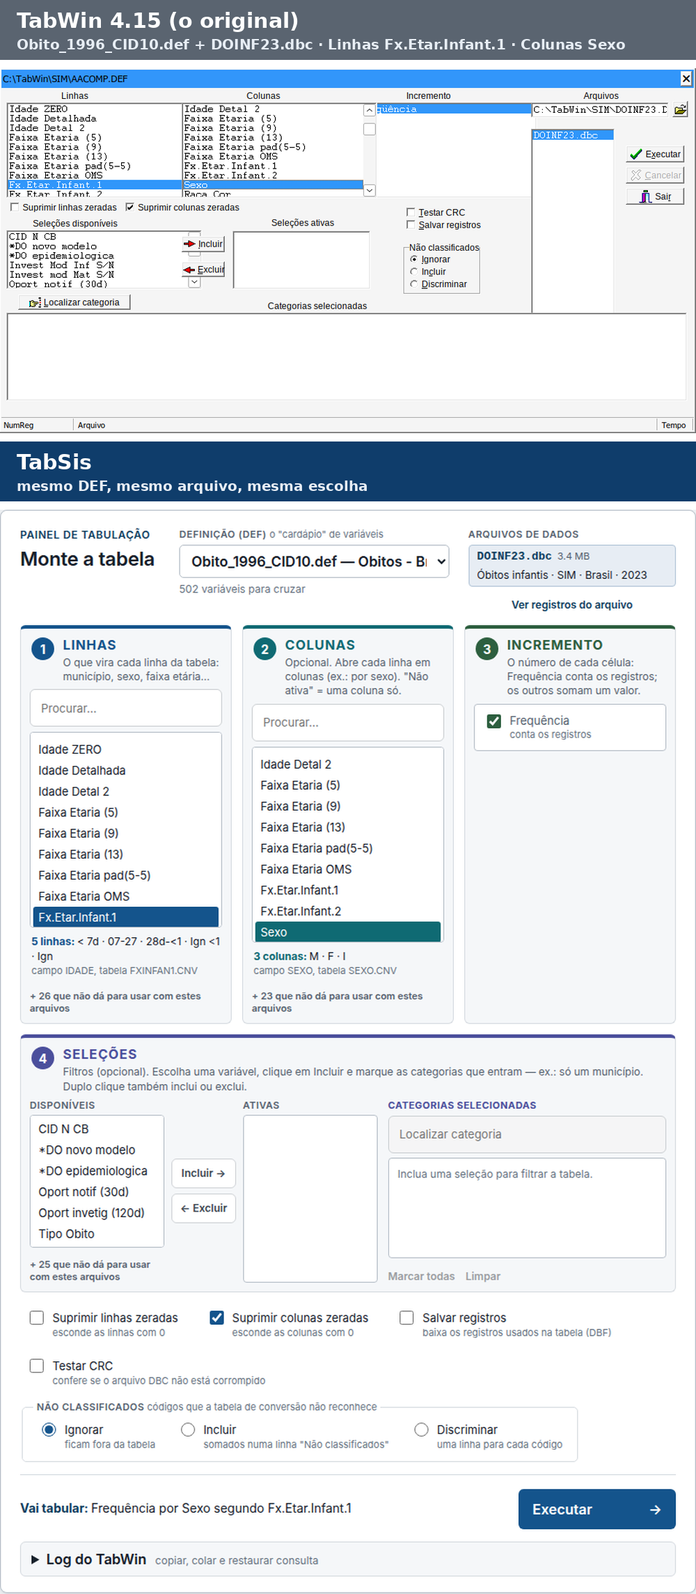
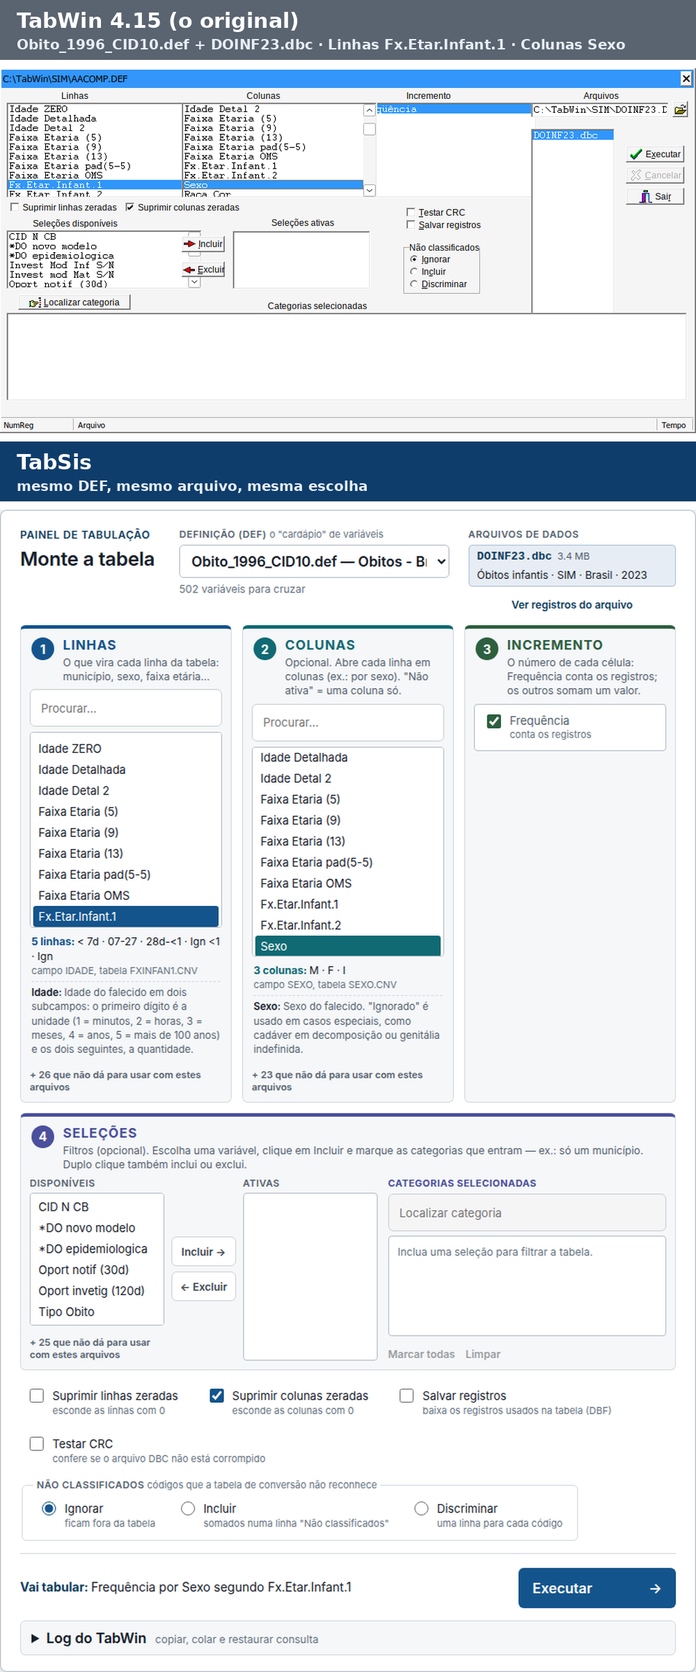
Dicionário oficial do SIM e do SINASC no painel
- packages/formats/src/datasus-field-dictionary.ts: 87 campos do SIM
  (Estrutura do SIM, DATASUS, 07/2025) e 30 do SINASC (Estrutura do
  SINASC), com nome, descrição e valores válidos — só o que os documentos
  dizem; campo não descrito (NUDIASOBIN) fica sem explicação, não com
  palpite. SEXO, que tem códigos diferentes nos dois, só responde com o
  sistema (tirado do nome do arquivo).
- Painel: a explicação oficial embaixo das categorias de Linhas e Colunas
  e na dica de cada opção; "Ver registros do arquivo" com o nome legível
  de cada campo; "Tabular por campos" com os nomes do dicionário.
- Exportação sem DEF volta a levar o nome técnico do campo no cabeçalho
  (a tela mostra o legível).
- Manual: "O que querem dizer os nomes do DEF", com exemplos; figuras
  refeitas.

Changed region(s): [[0.0, 0.2481, 1.0, 1.0], [0.0, 0.0, 1.0, 0.2171], [0.589, 0.1241, 0.682, 0.1861]]

diff --git a/packages/formats/src/datasus-field-dictionary.ts b/packages/formats/src/datasus-field-dictionary.ts
@@ -1,0 +1,188 @@
+/**
+ * O que cada campo do SIM e do SINASC significa, transcrito dos dicionários
+ * oficiais do DATASUS — para o painel explicar "STDONOVA" ou "DIFDATA" a quem
+ * nunca viu essas siglas, sem que ninguém precise adivinhar.
+ *
+ * Fontes (ftp.datasus.gov.br/dissemin/publicos):
+ * - SIM: `SIM/CID10/DOCS/Estrutura_do_SIM_2025.pdf` (atualizado em 07/2025);
+ * - SINASC: `SINASC/NOV/DOCS/Estrutura_SINASC_para_CD.pdf`.
+ *
+ * Só entra o que está escrito nesses documentos. Campo que eles não descrevem
+ * (no SIM, `NUDIASOBIN`; no SINASC, os campos da DN nova, como `KOTELCHUCK`)
+ * fica de fora: o painel mostra então só as categorias da CNV, que é o que se
+ * sabe. Como em `datasus-field-labels.ts`, isto é apresentação: nunca muda um
+ * número, um filtro ou uma exportação.
+ */
+
+export interface DatasusFieldEntry {
+  /** Nome curto, para mostrar no lugar da sigla. */
+  label: string;
+  /** O que o campo é, em uma ou duas frases. */
+  description: string;
+  /** Valores válidos, como o dicionário lista ("1 – Fetal; 2 – Não fetal"). */
+  values?: string;
+}
+
+export type DatasusDictionarySystem = 'SIM' | 'SINASC';
+
+export const DATASUS_DICTIONARY_SOURCES: Readonly<Record<DatasusDictionarySystem, string>> = Object.freeze({
+  SIM: 'Estrutura do SIM, DATASUS, 07/2025',
+  SINASC: 'Estrutura do SINASC, DATASUS',
+});
+
+const SIM_ANOS_DE_ESTUDO = '1 – Nenhuma; 2 – 1 a 3 anos; 3 – 4 a 7 anos; 4 – 8 a 11 anos; 5 – 12 anos e mais; 9 – Ignorado';
+const ESCOLARIDADE_2010 = '0 – Sem escolaridade; 1 – Fundamental I (1ª a 4ª série); 2 – Fundamental II (5ª a 8ª série); 3 – Médio; 4 – Superior incompleto; 5 – Superior completo; 9 – Ignorado';
+const ESCOLARIDADE_AGREGADA = '00 – Sem escolaridade; 01 – Fundamental I incompleto; 02 – Fundamental I completo; 03 – Fundamental II incompleto; 04 – Fundamental II completo; 05 – Médio incompleto; 06 – Médio completo; 07 – Superior incompleto; 08 – Superior completo; 09 – Ignorado; 10 a 12 – incompleto ou inespecífico';
+const SIM_NAO_IGNORADO = '1 – Sim; 2 – Não; 9 – Ignorado';
+const RACA_COR = '1 – Branca; 2 – Preta; 3 – Amarela; 4 – Parda; 5 – Indígena';
+const DATA = 'data no formato ddmmaaaa';
+
+const SIM: Readonly<Record<string, DatasusFieldEntry>> = {
+  TIPOBITO: { label: 'Tipo do óbito', description: 'Se o óbito é fetal (morte antes da expulsão ou extração completa do corpo da mãe) ou não fetal.', values: '1 – Fetal; 2 – Não fetal' },
+  DTOBITO: { label: 'Data do óbito', description: 'Data em que ocorreu o óbito.', values: DATA },
+  HORAOBITO: { label: 'Hora do óbito', description: 'Horário do óbito, no padrão de 24 horas.' },
+  NATURAL: { label: 'Naturalidade', description: 'Município e UF onde o falecido nasceu; se estrangeiro, o país.' },
+  CODMUNNATU: { label: 'Município de naturalidade', description: 'Código do município de naturalidade do falecido.' },
+  DTNASC: { label: 'Data de nascimento', description: 'Data de nascimento do falecido. No óbito fetal, igual à data do óbito.', values: DATA },
+  IDADE: { label: 'Idade', description: 'Idade do falecido em dois subcampos: o primeiro dígito é a unidade (1 = minutos, 2 = horas, 3 = meses, 4 = anos, 5 = mais de 100 anos) e os dois seguintes, a quantidade.' },
+  SEXO: { label: 'Sexo', description: 'Sexo do falecido. "Ignorado" é usado em casos especiais, como cadáver em decomposição ou genitália indefinida.', values: 'M ou 1 – Masculino; F ou 2 – Feminino; I, 0 ou 9 – Ignorado' },
+  RACACOR: { label: 'Raça/cor', description: 'Cor informada pelo responsável pelas informações do falecido.', values: RACA_COR },
+  ESTCIV: { label: 'Situação conjugal', description: 'Situação conjugal do falecido, informada pelos familiares.', values: '1 – Solteiro; 2 – Casado; 3 – Viúvo; 4 – Separado judicialmente/divorciado; 5 – União estável; 9 – Ignorado' },
+  ESC: { label: 'Escolaridade (anos)', description: 'Escolaridade do falecido em anos de estudo (formulário antigo).', values: SIM_ANOS_DE_ESTUDO },
+  ESC2010: { label: 'Escolaridade 2010 (nível)', description: 'Nível da última série concluída pelo falecido (formulário a partir de 2010).', values: ESCOLARIDADE_2010 },
+  SERIESCFAL: { label: 'Última série concluída', description: 'Última série escolar concluída pelo falecido (1 a 8).' },
+  ESCFALAGR1: { label: 'Escolaridade agregada', description: 'Escolaridade do falecido agregada (formulário a partir de 2010).', values: ESCOLARIDADE_AGREGADA },
+  OCUP: { label: 'Ocupação (CBO 2002)', description: 'Tipo de trabalho que o falecido desenvolveu na maior parte da vida produtiva, pela Classificação Brasileira de Ocupações.' },
+  CODMUNRES: { label: 'Município de residência', description: 'Código do município de residência. No óbito fetal, o município de residência da mãe.' },
+  LOCOCOR: { label: 'Local de ocorrência', description: 'Onde o óbito ocorreu.', values: '1 – Hospital; 2 – Outro estabelecimento de saúde; 3 – Domicílio; 4 – Via pública; 5 – Outros; 6 – Aldeia indígena; 9 – Ignorado' },
+  CODESTAB: { label: 'Estabelecimento (CNES)', description: 'Código do estabelecimento de saúde no Cadastro Nacional de Estabelecimentos de Saúde.' },
+  CODMUNOCOR: { label: 'Município de ocorrência', description: 'Código do município onde ocorreu o óbito.' },
+  IDADEMAE: { label: 'Idade da mãe', description: 'Idade da mãe, em anos.' },
+  ESCMAE: { label: 'Escolaridade da mãe (anos)', description: 'Escolaridade da mãe em anos de estudo (formulário antigo).', values: SIM_ANOS_DE_ESTUDO },
+  ESCMAE2010: { label: 'Escolaridade da mãe 2010 (nível)', description: 'Nível da última série concluída pela mãe (formulário a partir de 2010).', values: ESCOLARIDADE_2010 },
+  SERIESCMAE: { label: 'Última série concluída pela mãe', description: 'Última série escolar concluída pela mãe (1 a 8).' },
+  ESCMAEAGR1: { label: 'Escolaridade da mãe agregada', description: 'Escolaridade da mãe agregada (formulário a partir de 2010).', values: ESCOLARIDADE_AGREGADA },
+  OCUPMAE: { label: 'Ocupação da mãe (CBO 2002)', description: 'Trabalho exercido habitualmente pela mãe, pela Classificação Brasileira de Ocupações.' },
+  QTDFILVIVO: { label: 'Filhos nascidos vivos', description: 'Número de filhos vivos da mãe.' },
+  QTDFILMORT: { label: 'Perdas fetais/abortos', description: 'Número de filhos mortos, sem contar a criança cujo óbito está sendo notificado.' },
+  SEMAGESTAC: { label: 'Semanas de gestação', description: 'Semanas de gestação, com dois algarismos.' },
+  GESTACAO: { label: 'Faixa de semanas de gestação', description: 'Semanas de gestação em faixas (formulário antigo).', values: '1 – Menos de 22; 2 – 22 a 27; 3 – 28 a 31; 4 – 32 a 36; 5 – 37 a 41; 6 – 42 e mais semanas' },
+  GRAVIDEZ: { label: 'Tipo de gravidez', description: 'Se a gravidez foi única ou múltipla.', values: '1 – Única; 2 – Dupla; 3 – Tripla e mais; 9 – Ignorada' },
+  PARTO: { label: 'Tipo de parto', description: 'Tipo de parto.', values: '1 – Vaginal; 2 – Cesáreo; 9 – Ignorado' },
+  OBITOPARTO: { label: 'Morte em relação ao parto', description: 'Momento do óbito em relação ao parto.', values: '1 – Antes; 2 – Durante; 3 – Depois; 9 – Ignorado' },
+  MORTEPARTO: { label: 'Morte em relação ao parto (após investigação)', description: 'Momento do óbito em relação ao parto, depois da investigação.', values: '1 – Antes; 2 – Durante; 3 – Após; 9 – Ignorado' },
+  PESO: { label: 'Peso ao nascer', description: 'Peso ao nascer, em gramas.' },
+  TPMORTEOCO: { label: 'Quando a morte ocorreu (mulher em idade fértil)', description: 'Situação gestacional ou pós-gestacional em que ocorreu o óbito.', values: '1 – Na gravidez; 2 – No parto; 3 – No abortamento; 4 – Até 42 dias após o parto; 5 – De 43 dias a 1 ano após; 8 – Não ocorreu nesses períodos; 9 – Ignorado' },
+  OBITOGRAV: { label: 'Óbito na gravidez', description: 'Se o óbito ocorreu na gravidez.', values: SIM_NAO_IGNORADO },
+  OBITOPUERP: { label: 'Óbito no puerpério', description: 'Se o óbito ocorreu no puerpério.', values: '1 – Sim, até 42 dias após o parto; 2 – Sim, de 43 dias a 1 ano; 3 – Não; 9 – Ignorado' },
+  TPOBITOCOR: { label: 'Momento do óbito (investigação)', description: 'Momento do óbito apontado pela investigação; em branco, não investigado.', values: '1 – Na gestação; 2 – No abortamento; 3 – Após o abortamento; 4 – No parto ou até 1 hora após; 5 – No puerpério (até 42 dias); 6 – De 43 dias a 1 ano após o parto; 7 – Investigação não identificou; 8 – Mais de um ano após o parto; 9 – Nenhuma dessas' },
+  ASSISTMED: { label: 'Recebeu assistência médica', description: 'Se o paciente recebeu atendimento médico continuado durante a doença que causou a morte.', values: SIM_NAO_IGNORADO },
+  EXAME: { label: 'Exame', description: 'Se foi realizado exame.', values: SIM_NAO_IGNORADO },
+  CIRURGIA: { label: 'Cirurgia', description: 'Se foi realizada cirurgia.', values: SIM_NAO_IGNORADO },
+  NECROPSIA: { label: 'Necropsia', description: 'Se foi feita necropsia para confirmar o diagnóstico.', values: SIM_NAO_IGNORADO },
+  LINHAA: { label: 'Causa — linha A', description: 'CIDs da linha A da DO: a causa terminal, doença ou estado que causou diretamente a morte.' },
+  LINHAB: { label: 'Causa — linha B', description: 'CIDs da linha B da DO: causa antecedente, que produziu a causa da linha A.' },
+  LINHAC: { label: 'Causa — linha C', description: 'CIDs da linha C da DO: causa antecedente, que produziu a causa da linha B.' },
+  LINHAD: { label: 'Causa — linha D', description: 'CIDs da linha D da DO: causa básica, o estado mórbido que produziu a causa direta da morte registrada na linha A.' },
+  LINHAII: { label: 'Causa — parte II', description: 'CIDs informados na parte II da DO.' },
+  CAUSABAS: { label: 'Causa básica (CID-10)', description: 'Causa básica do óbito, em CID-10.' },
+  CAUSABAS_O: { label: 'Causa básica original', description: 'Causa básica informada antes da resseleção.' },
+  CAUSAMAT: { label: 'Causa externa associada à materna', description: 'CID da causa externa associada a uma causa materna.' },
+  ATESTANTE: { label: 'Médico atestante', description: 'Condição do médico que atestou o óbito.', values: '1 – Assistente; 2 – Substituto; 3 – IML; 4 – SVO; 5 – Outro' },
+  COMUNSVOIM: { label: 'Município do SVO/IML', description: 'Código do município do SVO ou do IML, quando o óbito foi atestado por um deles.' },
+  DTATESTADO: { label: 'Data do atestado', description: 'Data em que o atestado foi assinado.', values: DATA },
+  CIRCOBITO: { label: 'Tipo de morte violenta', description: 'Circunstância da morte não natural.', values: '1 – Acidente; 2 – Suicídio; 3 – Homicídio; 4 – Outros; 9 – Ignorado' },
+  ACIDTRAB: { label: 'Acidente de trabalho', description: 'Se o evento que causou o óbito está relacionado ao trabalho.', values: SIM_NAO_IGNORADO },
+  FONTE: { label: 'Fonte da informação', description: 'Fonte usada para preencher o tipo de morte violenta e o acidente de trabalho.', values: '1 – Ocorrência policial; 2 – Hospital; 3 – Família; 4 – Outra; 9 – Ignorado' },
+  ORIGEM: { label: 'Origem do registro', description: 'De que banco de dados o registro veio.', values: '1 – Oracle; 2 – Banco estadual via FTP; 3 – Banco SEADE; 9 – Ignorado' },
+  NUMEROLOTE: { label: 'Número do lote', description: 'Número do lote de digitação.' },
+  DTINVESTIG: { label: 'Data da investigação', description: 'Data da investigação do óbito.', values: DATA },
+  DTCADASTRO: { label: 'Data do cadastro', description: 'Data do cadastro do óbito no sistema.', values: DATA },
+  DTRECEBIM: { label: 'Data do recebimento', description: 'Data do recebimento da DO.', values: DATA },
+  DTRECORIGA: { label: 'Data do recebimento original', description: 'Data do recebimento original, criada no tratamento dos dados.', values: DATA },
+  STCODIFICA: { label: 'Instalação codificadora', description: 'Se a instalação é codificadora (S) ou não (N).' },
+  CODIFICADO: { label: 'Formulário codificado', description: 'Se o formulário foi codificado (S) ou não (N).' },
+  VERSAOSIST: { label: 'Versão do sistema', description: 'Versão do sistema que gerou o registro.' },
+  VERSAOSCB: { label: 'Versão do seletor de causa básica', description: 'Versão do programa que seleciona a causa básica.' },
+  FONTEINV: { label: 'Fonte da investigação', description: 'Fonte usada na investigação do óbito.', values: '1 – Comitê de morte materna e/ou infantil; 2 – Visita domiciliar/entrevista com a família; 3 – Estabelecimento de saúde/prontuário; 4 – Outros bancos de dados; 5 – SVO; 6 – IML; 7 – Outra; 8 – Múltiplas fontes; 9 – Ignorado' },
+  FONTES: { label: 'Fontes da investigação (combinado)', description: 'Combinação das fontes da investigação (entrevista, ambulatório, prontuário, SVO, IML, profissional): S onde a fonte foi usada, X onde não.' },
+  ATESTADO: { label: 'CIDs do atestado', description: 'CIDs informados no atestado.' },
+  OPOR_DO: { label: 'Oportunidade da DO', description: 'Campo criado no tratamento dos dados para calcular oportunidades.' },
+  STDOEPIDEM: { label: 'DO epidemiológica', description: 'Se a declaração de óbito é epidemiológica.', values: '1 – Sim; 0 – Não' },
+  STDONOVA: { label: 'DO nova', description: 'Se a declaração de óbito é do modelo novo.', values: '1 – Sim; 0 – Não' },
+  DIFDATA: { label: 'Dias até o recebimento', description: 'Diferença, em dias, entre a data do óbito e a data do recebimento original da DO.' },
+  NUDIASOBCO: { label: 'Dias até a conclusão da investigação', description: 'Diferença, em dias, entre a data do óbito e a conclusão da investigação.' },
+  DTCADINV: { label: 'Data do cadastro da investigação', description: 'Data do cadastro da investigação.', values: DATA },
+  DTCONINV: { label: 'Data da conclusão da investigação', description: 'Data da conclusão da investigação.', values: DATA },
+  DTCADINF: { label: 'Investigação realizada', description: 'Quando preenchido, indica que a investigação foi realizada.', values: DATA },
+  DTCONCASO: { label: 'Data de conclusão do caso', description: 'Data de conclusão do caso.', values: DATA },
+  TPRESGINFO: { label: 'Resgate de informação', description: 'Se a investigação trouxe uma causa de óbito não informada ou corrigiu uma informada.', values: '01 – Não acrescentou nem corrigiu; 02 – Sim, resgatou novas informações; 03 – Sim, corrigiu alguma causa informada' },
+  TPNIVELINV: { label: 'Nível investigador', description: 'Nível que fez a investigação.', values: 'E – Estadual; R – Regional; M – Municipal' },
+  ALTCAUSA: { label: 'Alterou a causa após investigação', description: 'Se a causa do óbito foi corrigida ou alterada depois da investigação.', values: '1 – Sim; 2 – Não' },
+  TPPOS: { label: 'Óbito investigado', description: 'Se o óbito foi investigado.', values: '1 – Sim; 2 – Não' },
+  TP_ALTERA: { label: 'Motivo de alteração da causa', description: 'Tipo de crítica que levou à alteração da causa básica (em branco, ausência do 4º caractere, causa asterisco, inválida para o sexo, implausível…).' },
+  CB_ALT: { label: 'Variável de sistema', description: 'Variável de uso interno do sistema.' },
+};
+
+const SINASC: Readonly<Record<string, DatasusFieldEntry>> = {
+  NUMERODN: { label: 'Número da DN', description: 'Número da declaração de nascido vivo, sequencial por UF informante e por ano.' },
+  LOCNASC: { label: 'Local do nascimento', description: 'Onde o nascimento ocorreu.', values: '1 – Hospital; 2 – Outro estabelecimento de saúde; 3 – Domicílio; 4 – Outros; 9 – Ignorado' },
+  CODESTAB: { label: 'Estabelecimento (CNES)', description: 'Código do estabelecimento de saúde.' },
+  CODBAINASC: { label: 'Bairro do nascimento', description: 'Código do bairro do nascimento.' },
+  CODMUNNASC: { label: 'Município do nascimento', description: 'Código do município de ocorrência do nascimento.' },
+  IDADEMAE: { label: 'Idade da mãe', description: 'Idade da mãe, em anos.' },
+  ESTCIVMAE: { label: 'Estado civil da mãe', description: 'Estado civil da mãe.', values: '1 – Solteira; 2 – Casada; 3 – Viúva; 4 – Separada judicialmente/divorciada; 9 – Ignorado' },
+  ESCMAE: { label: 'Escolaridade da mãe (anos)', description: 'Anos de estudo concluídos pela mãe.', values: '1 – Nenhuma; 2 – 1 a 3 anos; 3 – 4 a 7 anos; 4 – 8 a 11 anos; 5 – 12 e mais; 9 – Ignorado' },
+  CODOCUPMAE: { label: 'Ocupação da mãe (CBO 2002)', description: 'Ocupação da mãe, pela Classificação Brasileira de Ocupações.' },
+  QTDFILVIVO: { label: 'Filhos vivos', description: 'Número de filhos vivos.' },
+  QTDFILMORT: { label: 'Filhos mortos', description: 'Número de filhos mortos.' },
+  CODBAIRES: { label: 'Bairro de residência', description: 'Código do bairro de residência.' },
+  CODMUNRES: { label: 'Município de residência da mãe', description: 'Código do município de residência da mãe.' },
+  GESTACAO: { label: 'Semanas de gestação (faixa)', description: 'Semanas de gestação, em faixas.', values: '1 – Menos de 22; 2 – 22 a 27; 3 – 28 a 31; 4 – 32 a 36; 5 – 37 a 41; 6 – 42 e mais semanas; 9 – Ignorado' },
+  GRAVIDEZ: { label: 'Tipo de gravidez', description: 'Se a gravidez foi única ou múltipla.', values: '1 – Única; 2 – Dupla; 3 – Tripla e mais; 9 – Ignorado' },
+  PARTO: { label: 'Tipo de parto', description: 'Tipo de parto.', values: '1 – Vaginal; 2 – Cesáreo; 9 – Ignorado' },
+  CONSULTAS: { label: 'Consultas de pré-natal', description: 'Número de consultas de pré-natal, em faixas.', values: '1 – Nenhuma; 2 – 1 a 3; 3 – 4 a 6; 4 – 7 e mais; 9 – Ignorado' },
+  DTNASC: { label: 'Data do nascimento', description: 'Data do nascimento.', values: DATA },
+  HORANASC: { label: 'Hora do nascimento', description: 'Hora do nascimento.' },
+  SEXO: { label: 'Sexo', description: 'Sexo do recém-nascido.', values: '0 – Ignorado; 1 – Masculino; 2 – Feminino' },
+  APGAR1: { label: 'Apgar no 1º minuto', description: 'Índice de Apgar no primeiro minuto de vida (0 a 10).' },
+  APGAR5: { label: 'Apgar no 5º minuto', description: 'Índice de Apgar no quinto minuto de vida (0 a 10).' },
+  RACACOR: { label: 'Raça/cor', description: 'Raça/cor do recém-nascido.', values: RACA_COR },
+  PESO: { label: 'Peso ao nascer', description: 'Peso ao nascer, em gramas.' },
+  IDANOMAL: { label: 'Anomalia congênita', description: 'Se foi detectada anomalia congênita.', values: '1 – Sim; 2 – Não; 9 – Ignorado' },
+  CODANOMAL: { label: 'Código da anomalia (CID-10)', description: 'Código da malformação congênita ou anomalia cromossômica, pela CID-10.' },
+  DTCADASTRO: { label: 'Data do cadastro', description: 'Data de cadastramento no sistema.', values: DATA },
+  DTRECEBIM: { label: 'Data do recebimento', description: 'Data de recebimento no nível central (última atualização do registro).', values: DATA },
+  CODINST: { label: 'Instalação', description: 'Código da instalação que gerou o registro.' },
+  UFINFORM: { label: 'UF informante', description: 'Código da UF que informou o registro.' },
+};
+
+const DICTIONARIES: Readonly<Record<DatasusDictionarySystem, Readonly<Record<string, DatasusFieldEntry>>>> = { SIM, SINASC };
+
+/**
+ * O que o dicionário oficial diz de um campo. Com o sistema (do nome do
+ * arquivo: `DOINF23.dbc` é SIM), usa o dicionário dele — `SEXO` tem códigos
+ * diferentes no SIM e no SINASC. Sem o sistema, só responde se os dois
+ * dicionários não discordam.
+ */
+export function datasusFieldEntry(
+  fieldName: string,
+  system?: string,
+): { entry: DatasusFieldEntry; source: string } | undefined {
+  const field = fieldName.trim().toUpperCase();
+  if (system === 'SIM' || system === 'SINASC') {
+    const entry = DICTIONARIES[system][field];
+    return entry ? { entry, source: DATASUS_DICTIONARY_SOURCES[system] } : undefined;
+  }
+  const sim = SIM[field];
+  const sinasc = SINASC[field];
+  if (sim && sinasc && (sim.values ?? '') !== (sinasc.values ?? '')) return undefined;
+  if (sim) return { entry: sim, source: DATASUS_DICTIONARY_SOURCES.SIM };
+  if (sinasc) return { entry: sinasc, source: DATASUS_DICTIONARY_SOURCES.SINASC };
+  return undefined;
+}
+
+/** Quantos campos cada dicionário cobre, para a interface dizer o alcance. */
+export function datasusDictionaryCount(system: DatasusDictionarySystem): number {
+  return Object.keys(DICTIONARIES[system]).length;
+}

diff --git a/apps/web/src/painel-ui.ts b/apps/web/src/painel-ui.ts
@@ -20,6 +20,7 @@ import {
   serializeTabwinLog,
 } from '../../../packages/formats/src/tabwin-log.ts';
 import { describeDatasusFile } from '../../../packages/formats/src/datasus-file-names.ts';
+import { datasusFieldEntry } from '../../../packages/formats/src/datasus-field-dictionary.ts';
 import type {
   CompatibilityProfile,
   DimensionLookupDefinition,
@@ -354,6 +355,16 @@ export function criarPainel(raiz: HTMLElement, deps: PainelDeps): Painel {
     if (botao) rotularIndisponiveis(botao, fora.length);
   }
 
+  /** O sistema dos arquivos abertos, pelo nome (`DOINF23.dbc` → SIM): escolhe o dicionário. */
+  function sistemaDosArquivos(): string | undefined {
+    return deps.arquivos().map((arquivo) => describeDatasusFile(arquivo.name)?.system).find(Boolean);
+  }
+
+  /** O que o dicionário oficial do DATASUS diz do campo, quando diz. */
+  function explicacao(campo: string): ReturnType<typeof datasusFieldEntry> {
+    return campo ? datasusFieldEntry(campo, sistemaDosArquivos()) : undefined;
+  }
+
   /** Amostra de categorias por tabela (CNV ou DBF já lido), feita uma vez só. */
   const amostras = new WeakMap<object, string>();
 
@@ -366,7 +377,12 @@ export function criarPainel(raiz: HTMLElement, deps: PainelDeps): Painel {
       if (recurso) amostras.set(recurso, amostra);
     }
     const origem = [eixo.field && `campo ${eixo.field}`, eixo.resourceFile && `tabela ${eixo.resourceFile.replace(/\\/g, '/').split('/').pop()}`].filter(Boolean).join(', ');
-    return `${eixo.label}: ${amostra}${origem ? `\n${origem}` : ''}`;
+    const oficial = explicacao(eixo.field);
+    return [
+      `${eixo.label}: ${amostra}`,
+      oficial ? `${oficial.entry.label} — ${oficial.entry.description}` : '',
+      origem,
+    ].filter(Boolean).join('\n');
   }
 
   function amostraDe(eixo: PainelEixo): string {
@@ -392,6 +408,15 @@ export function criarPainel(raiz: HTMLElement, deps: PainelDeps): Painel {
       destino.append(el('b', {}, `Uma ${papel === 'linhas' ? 'linha' : 'coluna'} para cada valor`), ' que aparecer no arquivo');
     }
     if (origem) destino.append(el('small', {}, origem));
+    // A explicação oficial do campo, quando o dicionário do DATASUS a tem:
+    // "STDONOVA" vira "DO nova — Se a declaração de óbito é do modelo novo".
+    const oficial = explicacao(eixo.field);
+    if (oficial) {
+      destino.append(el('span', {
+        className: 'painel-previa-dicionario',
+        title: [oficial.entry.values && `Valores: ${oficial.entry.values}`, `Fonte: ${oficial.source}`].filter(Boolean).join('\n'),
+      }, el('b', {}, `${oficial.entry.label}: `), oficial.entry.description));
+    }
   }
 
   function renderDef(): void {
@@ -843,7 +868,7 @@ export function criarPainel(raiz: HTMLElement, deps: PainelDeps): Painel {
       el('header', { className: 'painel-registros-topo' },
         el('div', {}, el('h2', {}, 'Registros do arquivo'),
           el('p', {}, `${deps.arquivos().map((arquivo) => arquivo.name).join(' + ')} · ${campos.length} campos · primeiras ${LIMITE} linhas. `,
-            'Cada linha é um registro (uma internação, um óbito…); cada coluna, um campo do DBF. O nome em cima é o do arquivo; embaixo, o nome que o DEF dá.')),
+            'Cada linha é um registro (uma internação, um óbito…); cada coluna, um campo do DBF. O nome em cima é o do arquivo; embaixo, o nome que o DEF dá e, no SIM e no SINASC, o que o dicionário oficial diz (passe o mouse para a explicação completa).')),
         el('button', { type: 'button', className: 'secondary-button', onclick: () => registrosDialogo.close() }, 'Fechar'),
       ),
       el('p', { className: 'painel-vazio' }, 'Lendo…'),
@@ -856,10 +881,15 @@ export function criarPainel(raiz: HTMLElement, deps: PainelDeps): Painel {
       cabeca.append(el('th', { scope: 'col' }, '#'));
       for (const campo of campos) {
         const rotulos = usados.get(campo.name.toUpperCase());
-        cabeca.append(el('th', { scope: 'col', title: rotulos?.join(' · ') ?? '' },
+        const oficial = explicacao(campo.name);
+        cabeca.append(el('th', {
+          scope: 'col',
+          title: [rotulos?.join(' · '), oficial && `${oficial.entry.label}: ${oficial.entry.description}`, oficial?.entry.values && `Valores: ${oficial.entry.values}`].filter(Boolean).join('\n'),
+        },
           el('b', {}, campo.name),
           el('small', {}, tipoDoCampo(campo)),
-          ...(rotulos ? [el('em', {}, rotulos[0]!)] : [])));
+          ...(rotulos ? [el('em', {}, rotulos[0]!)] : []),
+          ...(oficial ? [el('small', { className: 'painel-registros-oque' }, oficial.entry.label)] : [])));
       }
       const corpo = el('tbody');
       linhas.forEach((linha, indice) => {

diff --git a/apps/web/src/main.ts b/apps/web/src/main.ts
@@ -111,6 +111,7 @@ import {
 } from '../../../packages/export/src/tabwin-formats.ts';
 import { encodeWindows1252 } from '../../../packages/formats/src/windows-1252.ts';
 import { describeAuxiliaryFile, describeDatasusFile } from '../../../packages/formats/src/datasus-file-names.ts';
+import { datasusFieldEntry } from '../../../packages/formats/src/datasus-field-dictionary.ts';
 import { criarGerarDef } from './gerar-def.ts';
 import { criarEditorCnv } from './editor-cnv.ts';
 import {
@@ -1000,7 +1001,10 @@ function setControlsEnabled(enabled: boolean): void {
  * official layout still needs to see the real name.
  */
 function labelledFieldName(fieldName: string, defLabel?: string): string {
-  const label = defLabel ?? datasusFieldLabel(fieldName);
+  // Sem DEF: o rótulo curto conhecido, ou o do dicionário oficial do SIM/SINASC
+  // quando o arquivo é de um deles (STDONOVA → "DO nova").
+  const sistema = activeDatasetSources.map((source) => describeDatasusFile(source.name)?.system).find(Boolean);
+  const label = defLabel ?? datasusFieldLabel(fieldName) ?? datasusFieldEntry(fieldName, sistema)?.entry.label;
   if (!label) return fieldName;
   // A label that is the field name in prettier case ("Sexo" for SEXO) adds
   // nothing, and "Sexo · SEXO" reads as noise. Collapse to the technical name
@@ -1036,7 +1040,7 @@ function friendlyFieldLabel(fieldName: string, role: 'row' | 'column' = 'row'): 
 }
 
 function activeRowLabel(): string {
-  return currentRowLabel || fieldLabel(rowField.value) || currentPlan?.spec.rows.field || 'Linha';
+  return currentRowLabel || (rowField.value ? friendlyFieldLabel(rowField.value) : '') || currentPlan?.spec.rows.field || 'Linha';
 }
 
 /**
@@ -3670,7 +3674,9 @@ async function runAnalysis(measureOverride?: MeasureSpec, planOverride?: QueryPl
     baseResult = result;
     currentResult = result;
     tableOperations = [];
-    currentRowLabel = friendlyFieldLabel(rowField.value);
+    // Só o nome do DEF fica guardado (vai para a exportação); sem DEF a tela
+    // mostra o rótulo do dicionário e a exportação, o nome técnico.
+    currentRowLabel = defFieldLabel(rowField.value, 'row') ? friendlyFieldLabel(rowField.value) : '';
     resultKicker.textContent = measureKind.value === 'sum'
       ? `${datasetName} · soma de ${measureField.value}`
       : `${datasetName} · contagem de registros`;

diff --git a/apps/web/src/styles.css b/apps/web/src/styles.css
@@ -808,6 +808,9 @@ dialog p { color: #676d74; font-size: 13px; line-height: 1.6; }
 .painel-previa b { color: var(--tom); font-weight: 700; }
 .painel-previa small { display: block; color: var(--faint); font-size: 11px; }
 .painel-previa:empty { display: none; }
+.painel-previa-dicionario { display: block; margin-top: 4px; padding-top: 4px; border-top: 1px dashed var(--line); color: var(--muted); font-size: 11.5px; }
+.painel-previa-dicionario b { color: var(--ink); font-weight: 600; }
+.painel-registros-tabela th .painel-registros-oque { display: block; color: var(--muted); font-weight: 400; font-style: normal; }
 .painel-indisponiveis { align-self: flex-start; padding: 0; font-size: 11px; color: var(--muted); text-align: left; }
 .painel-bloco select optgroup { color: var(--faint); font-style: normal; font-size: 11px; }
 .painel-busca { width: 100%; min-height: 32px; padding: 5px 8px; border: 1px solid var(--line-strong); border-radius: 4px; background: var(--surface); font-size: 13px; }

diff --git a/packages/formats/src/index.ts b/packages/formats/src/index.ts
@@ -18,3 +18,4 @@ export * from './tabwin-log.js';
 export * from './dos-encoding.js';
 export * from './def-generator.js';
 export * from './datasus-file-names.js';
+export * from './datasus-field-dictionary.js';
